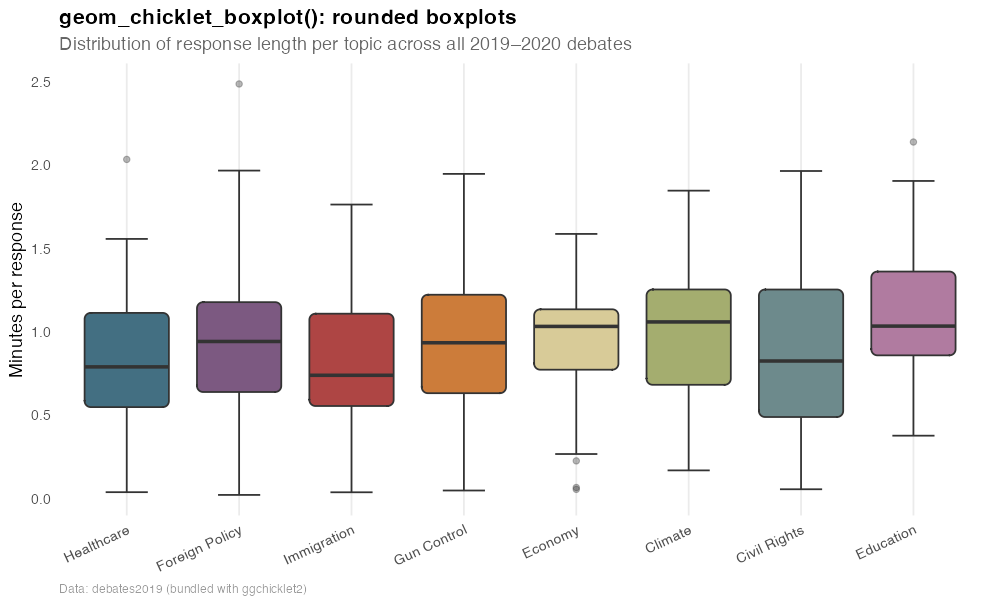
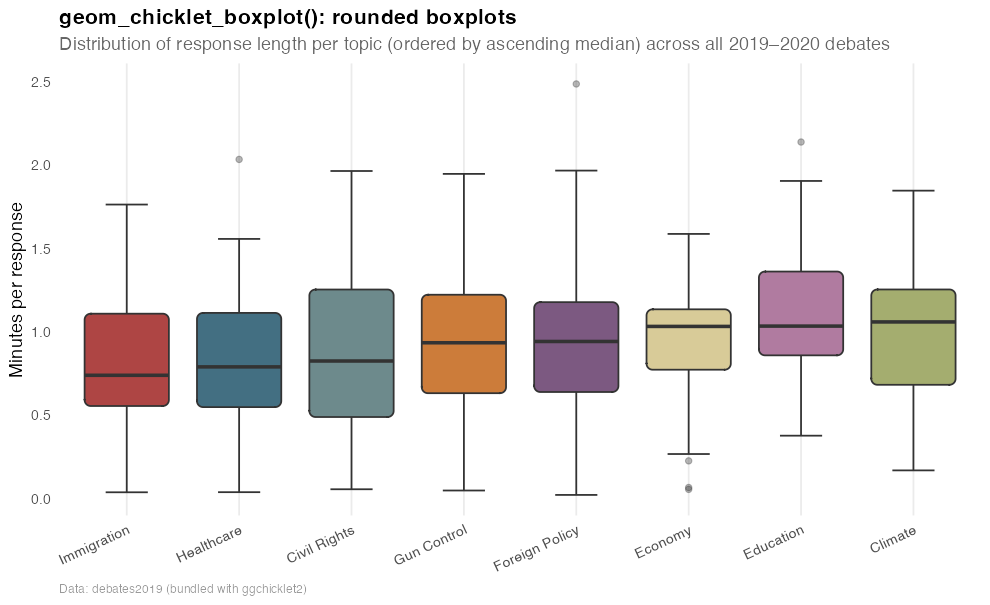
README figures: fix missing Climate fill; order boxplots by ascending median
Two fixes to data-raw/build-readme-figures.R:

  * The bundled debates2019 dataset uses the label "Climate" (not
    "Climate Change"). The geom_chicklet README figure had been
    including "Climate Change" in the featured-topics whitelist, which
    never matched any rows, so every Climate response was lumped into
    "Other" and the green never appeared in the stacked bars. Replaces
    "Climate Change" with "Climate" (the palette already maps both to
    the same NYT green; the now-unused alias is dropped).

  * Both geom_chicklet_boxplot figures (single grouping and dodged) and
    the geom_chicklet_histogram figure now order topics by ascending
    median response length via reorder(). The dodged plot reuses the
    levels computed for the single-grouping plot so the two figures
    read coherently side-by-side, and the histogram's stack/legend
    order follows the same ascending-median convention.

README code snippets updated to mirror the new ordering pattern so
copy-paste reproduces what's shown.

diff --git a/README.md b/README.md
@@ -53,7 +53,7 @@ d1 <- subset(debates2019, debate_group == 1)
 spk_order <- aggregate(elapsed ~ speaker, data = d1, sum)
 d1$speaker <- factor(d1$speaker,
                      levels = spk_order$speaker[order(spk_order$elapsed)])
-featured <- c("Immigration", "Economy", "Climate Change",
+featured <- c("Immigration", "Economy", "Climate",
               "Gun Control", "Healthcare", "Foreign Policy")
 d1$topic <- factor(ifelse(d1$topic %in% featured, d1$topic, "Other"),
                    levels = c(featured, "Other"))
@@ -114,7 +114,8 @@ computation), so it composes with `aes()`, scales, faceting,
 box_topics <- c("Healthcare", "Foreign Policy", "Immigration", "Gun Control",
                 "Economy", "Climate", "Civil Rights", "Education")
 db <- subset(debates2019, topic %in% box_topics)
-db$topic <- factor(db$topic, levels = box_topics)
+# Order topics on the x-axis by ascending median response length
+db$topic <- reorder(factor(db$topic), db$elapsed, median, na.rm = TRUE)
 
 ggplot(db, aes(topic, elapsed, fill = topic)) +
   geom_chicklet_boxplot(
@@ -137,7 +138,8 @@ grouping aesthetic automatically.
 ```r
 db2 <- subset(debates2019,
               topic %in% box_topics & debate_group %in% c(1, 4, 7))
-db2$topic        <- factor(db2$topic, levels = box_topics)
+# Use the same overall-median ordering as the single-grouping plot
+db2$topic        <- factor(db2$topic, levels = levels(db$topic))
 db2$debate_group <- factor(paste0("Debate ", db2$debate_group))
 
 ggplot(db2, aes(topic, elapsed, fill = debate_group)) +
@@ -164,7 +166,8 @@ bar/histogram aesthetic set, faceting, horizontal orientation
 featured <- c("Healthcare", "Foreign Policy", "Immigration",
               "Gun Control", "Economy", "Climate")
 dh <- subset(debates2019, topic %in% featured)
-dh$topic <- factor(dh$topic, levels = featured)
+# Stack and legend order: ascending median response length
+dh$topic <- reorder(factor(dh$topic), dh$elapsed, median, na.rm = TRUE)
 
 ggplot(dh, aes(elapsed, fill = topic)) +
   geom_chicklet_histogram(
